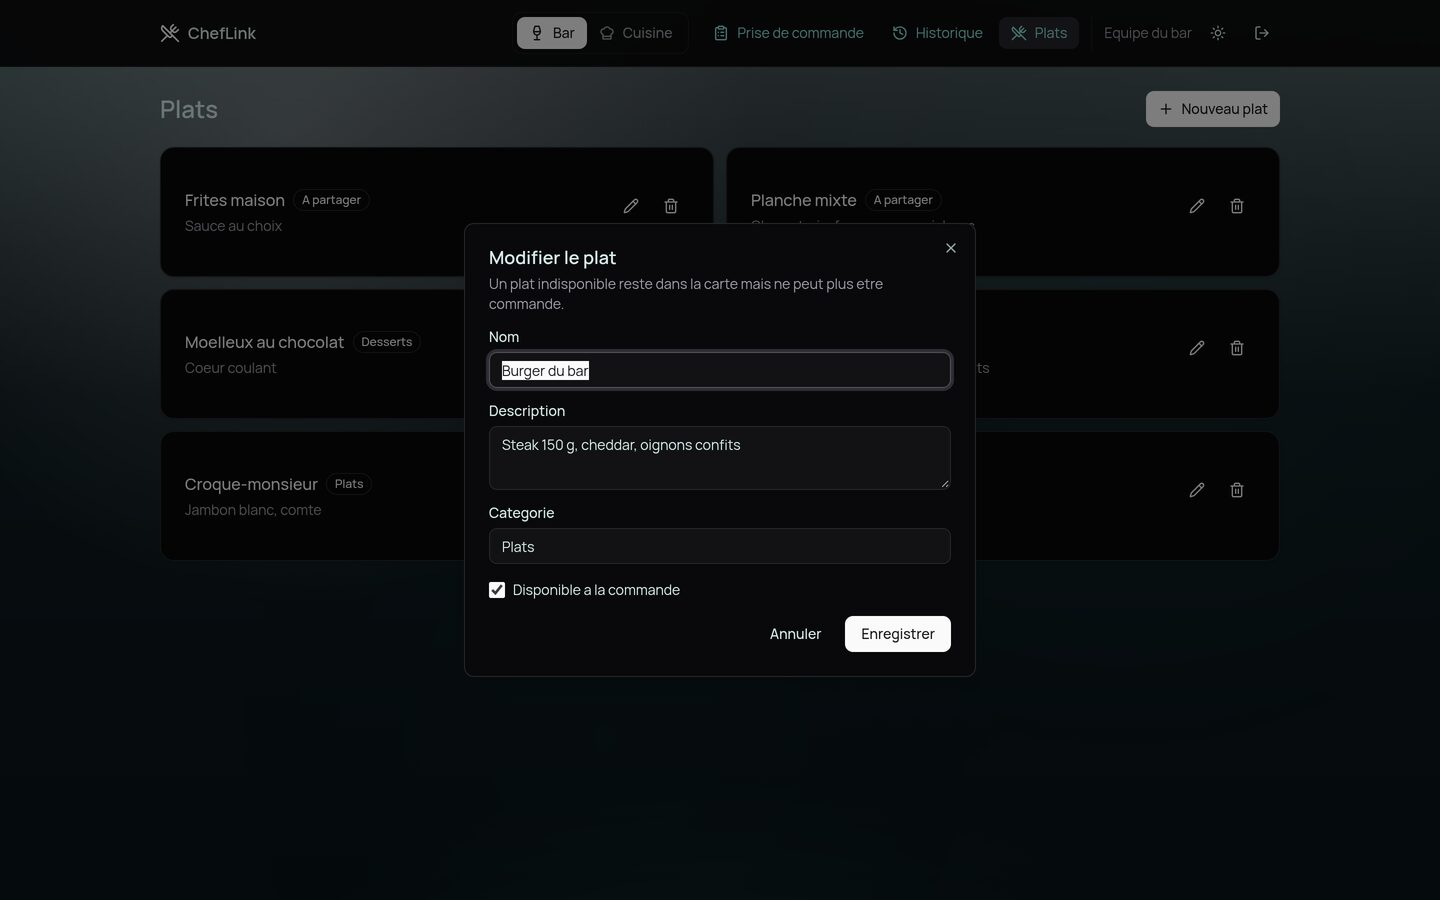
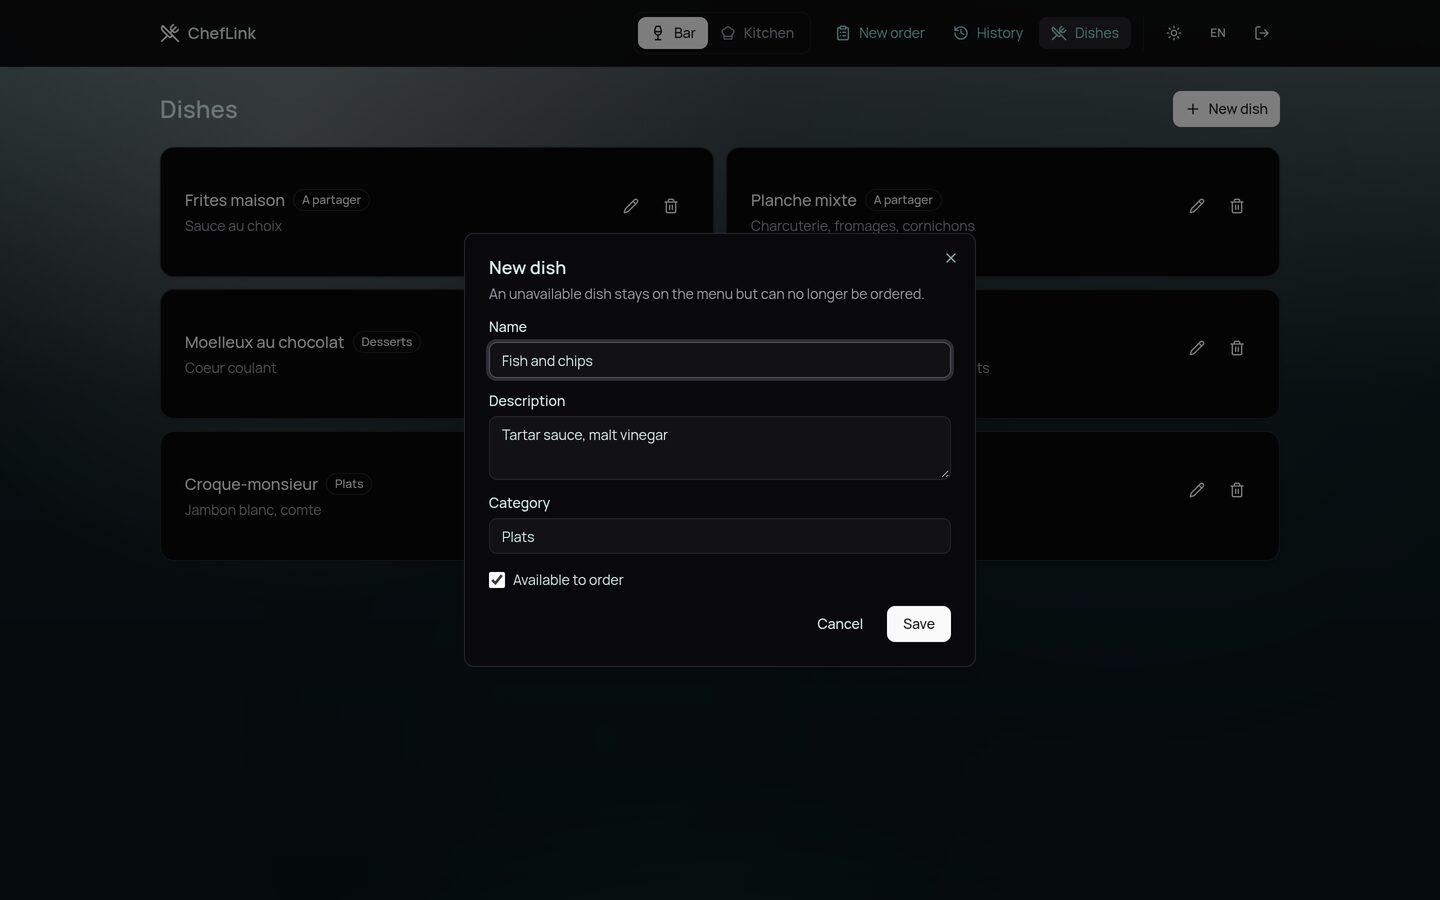
📸 docs: reshoot the screenshots in English
The readme is written in English and its captions are too, so every shot sat
next to a caption in another language - "Order taking" over a screen reading
"Prise de commande". Now that the interface has both, the set matches the
prose around it.

Same compositions, same script, one line changed: the `cheflink.locale`
cookie is set before the first page loads, so the SERVER renders in English
and the shots show what a visitor actually gets, not a page corrected
afterwards.

Added a pair to the i18n section: the same kitchen screen, same three orders,
in English and in French. Cropped to the content - the empty background below
the cards says nothing, and at half width the header is the part you want to
read. The order note stays in the language it was typed in, which is the
point.

The header in every shot is also one item shorter, since the account name
left in the previous commit.

Taking them turned up two things the earlier verification could not reach
without a browser, both fine: the dish dialog translates (Name, Description,
Category, Available to order, Cancel, Save), and the plurals agree - "3
orders" against "3 commandes", "1 commande" in the singular.

`connexion.jpg` was shot too and then dropped rather than committed: nothing
in the readme points at a login screen, and an image no page shows is just
weight in the repository.

diff --git a/README.md b/README.md
@@ -18,7 +18,7 @@ On Cloudflare, within the free plan.
 
 </div>
 
-<img src="docs/screenshots/cuisine.jpg" alt="Kitchen screen: two orders as cards, the table's note highlighted, the waiting badge and the sound toggle" width="100%">
+<img src="docs/screenshots/cuisine.jpg" alt="Kitchen screen in English: three orders as cards, the table's note highlighted, the waiting badge and the sound toggle" width="100%">
 
 ---
 
@@ -60,7 +60,7 @@ mode, and either can switch with one click.
 | :--: | :--: |
 | <img src="docs/screenshots/bar.jpg" alt="Order taking: menu grouped by category on the left, sticky basket on the right with the table and the note"> | <img src="docs/screenshots/historique.jpg" alt="Order history with statuses, sent time and ready time"> |
 | **Order taking** — menu, basket, note | **History** — statuses and timestamps |
-| <img src="docs/screenshots/plats.jpg" alt="Dish management: name, category, availability"> | <img src="docs/screenshots/plat-edition.jpg" alt="Dish editing dialog"> |
+| <img src="docs/screenshots/plats.jpg" alt="Dish management: name, category, availability"> | <img src="docs/screenshots/plat-edition.jpg" alt="The new-dish dialog: name, description, category and availability"> |
 | **Dishes** — the menu, editable mid-service | **Editing** — name, category, availability |
 
 <div align="center">
@@ -89,6 +89,14 @@ The copy lives in `messages/fr.json` and `messages/en.json` and is **compiled**
 into `src/paraglide`: each message becomes a function, so a page only ships the
 messages it uses, and a typo in a message name is a type error rather than a
 blank on a screen.
+
+| | |
+| :--: | :--: |
+| <img src="docs/screenshots/langue-en.jpg" alt="The kitchen screen in English: In the kitchen, 3 orders, Enable sound, Tap to mark as ready"> | <img src="docs/screenshots/langue-fr.jpg" alt="The same kitchen screen in French: En cuisine, 3 commandes, Activer le son, Appuyer pour marquer pret"> |
+| **English** | **French** |
+
+The same screen, one button apart - the `EN`/`FR` in the header. The order note
+is not translated and should not be: it is what the server typed.
 
 Three decisions worth the words:
 
